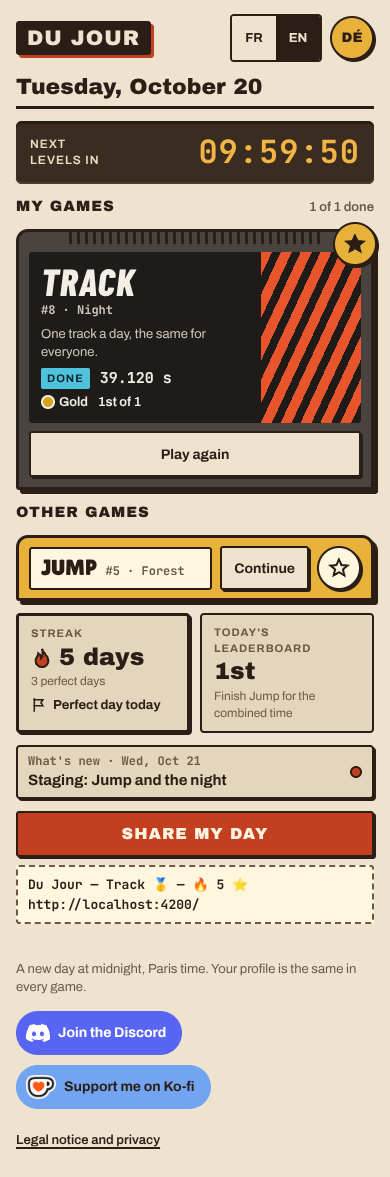
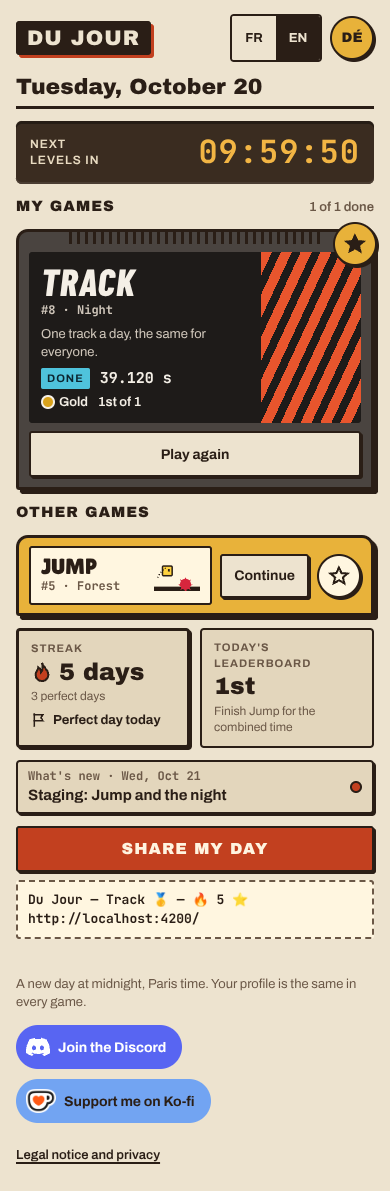
Lot F1 : les cartouches compactes gardent le décor de leur jeu
Le dessin de Jump, celui de Tower et la livrée de Track reviennent dans la ligne
compacte, en plus petit (plus grand dès 600 px), sous le texte et jamais dessus.
Budget du portail : +2 140 o mesurés, plafond 35 200 (à valider par Nathan).

Claude-Session: https://claude.ai/code/session_012eMWG2xN8q8rTXkqMFU2iP

diff --git a/packages/ui/src/favoris.css b/packages/ui/src/favoris.css
@@ -37,8 +37,8 @@
 .dj-cartouche--avec-favori {
   position: relative;
 }
-/* La cartouche compacte : une ligne, mêmes coque, couleurs et étiquette que la pleine (variante, pas un nouveau dessin). Les stries de préhension laissent la place ; les décors de
-   l'étiquette (dessin de Jump et de Tower) aussi — le nom, le numéro et la couleur du jeu restent ; la livrée de Track n'est plus qu'une bande étroite, sous laquelle le texte ne passe pas. */
+/* La cartouche compacte : une ligne, mêmes coque, couleurs, police **et décor** que la pleine (variante, pas un nouveau dessin) : le dessin de Jump et de Tower et la livrée de Track
+   sont gardés, en plus petit, sous le texte jamais dessus. Seules les stries de préhension laissent la place. */
 .dj-cartouche--compacte {
   position: relative;
   flex-direction: row;
@@ -46,9 +46,7 @@
   gap: var(--dj-espace-3);
   padding: var(--dj-espace-3) var(--dj-espace-4);
 }
-.dj-cartouche--compacte .dj-cartouche__stries,
-.dj-cartouche--compacte .jump-etiquette__dessin,
-.dj-cartouche--compacte .tower-etiquette__dessin {
+.dj-cartouche--compacte .dj-cartouche__stries {
   display: none;
 }
 .dj-cartouche--compacte .dj-etiquette {
@@ -57,12 +55,34 @@
   min-height: 0;
   padding: var(--dj-espace-3) var(--dj-espace-4);
 }
+.dj-cartouche--compacte .jump-etiquette__dessin {
+  width: 46px;
+  height: auto;
+}
+.dj-cartouche--compacte .tower-etiquette__dessin {
+  width: 38px;
+  height: auto;
+}
 .dj-cartouche--compacte .track-etiquette {
-  padding-right: 52px;
+  padding-right: 62px;
 }
 .dj-cartouche--compacte .track-etiquette__livree {
-  width: 40px;
+  width: 44px;
   right: -8px;
+}
+@media (min-width: 600px) {
+  .dj-cartouche--compacte .jump-etiquette__dessin {
+    width: 62px;
+  }
+  .dj-cartouche--compacte .tower-etiquette__dessin {
+    width: 50px;
+  }
+  .dj-cartouche--compacte .track-etiquette {
+    padding-right: 96px;
+  }
+  .dj-cartouche--compacte .track-etiquette__livree {
+    width: 84px;
+  }
 }
 .dj-cartouche--compacte .dj-cartouche__action {
   flex: none;

diff --git a/apps/portail/test/construction.test.ts b/apps/portail/test/construction.test.ts
@@ -12,7 +12,7 @@ import { VITRINE, portailEnv } from "../../../scripts/site.mjs";
 //     déclarées par la page ≤ 150 ko, seules Archivo Black et Archivo 400 préchargées ;
 //   - la vitrine `/ui/` n'est jamais construite pour la production.
 // Les chiffres sont écrits dans la sortie du test (et recopiés dans le README du lot).
-export const BUDGET_PREMIER_CHARGEMENT = 35_150; // lot F1 : 33 000 → 35 150 o (+2 150 pour +2 094 mesurés), « Mes jeux » (l'étoile, la cartouche compacte, la répartition, la pastille « Nouveau », les textes fr + en) : **à valider par Nathan** (`docs/plateforme/budgets.md`) ; avant : lot S1 : 32 768 → 33 000 o (+232 o), décision de Nathan du 31/10/2026 : les boutons Discord / Ko-fi passent par le composant du socle (jetons de couleur, code) ; avant : 32 * 1024 ; lot 53 : 30 → 32 ko (+2 048 o), décision de Nathan du 28/10/2026 : la pastille de l'iPhone, « Retrouver mon profil » (à la demande), l'en-tête iOS, les marges de sécurité
+export const BUDGET_PREMIER_CHARGEMENT = 35_200; // lot F1 : 33 000 → 35 200 o (+2 200 pour +2 140 mesurés), « Mes jeux » (l'étoile, la cartouche compacte, la répartition, la pastille « Nouveau », les textes fr + en) : **à valider par Nathan** (`docs/plateforme/budgets.md`) ; avant : lot S1 : 32 768 → 33 000 o (+232 o), décision de Nathan du 31/10/2026 : les boutons Discord / Ko-fi passent par le composant du socle (jetons de couleur, code) ; avant : 32 * 1024 ; lot 53 : 30 → 32 ko (+2 048 o), décision de Nathan du 28/10/2026 : la pastille de l'iPhone, « Retrouver mon profil » (à la demande), l'en-tête iOS, les marges de sécurité
 export const BUDGET_POLICES = 150 * 1024;
 
 const ROOT = join(__dirname, "../../..");

diff --git a/docs/plateforme/budgets.md b/docs/plateforme/budgets.md
@@ -10,7 +10,7 @@ Octets **compressés** (gzip) pour le JS, le CSS et le HTML ; octets des fichier
 
 | Clé | Application | Mesure | Budget (o) | Avant | Après | Marge | Gardé par |
 |---|---|---|---|---|---|---|---|
-| `portail.premier` | Portail | premier chargement de l'accueil (HTML, JS, CSS) | 35 150 | 22 360 | 35 094 (lot F1 : **+2 094 mesuré contre `main` reconstruit à part (33 000)** — « Mes jeux » : l'étoile (`boutonFavori`, `iconeEtoile`), la variante compacte de la cartouche, la répartition mes jeux / autres jeux, la ligne « à partir de demain », la pastille « Nouveau », la lecture de la liste de favoris, les textes français et anglais ; l'écriture au serveur est déjà à la demande (`favorisReseau.ts`) ; **plafond relevé de 2 150 o : à valider par Nathan** — le lot demandait un budget tenu, l'étoile et la cartouche compacte sont dans le premier dessin de l'accueil et ne peuvent pas être à la demande ; autre piste notée au rapport : charger le catalogue anglais du portail à la demande) ; 32 897 (lot S1 : +142 mesuré contre `main` reconstruit à part (32 755) — le pied passe par le composant du socle ; plafond relevé de 232 o par Nathan, 31/10/2026) ; 32 755 (lot TP : mesuré après la fusion de `main` — la cartouche de Tower, l'onglet et la ligne de partage (textes raccourcis pour tenir) ; avant : 31 650 (lot « musique » : +0 mesuré contre `main` reconstruit à part (31 650 ; le 31 590 noté par le lot M1 était resté en deçà) — la clé gardée `cdj:musique` de `@cdj/profile`; avant : 31 590 (lot M1 : +151 mesuré contre `main` reconstruit à part (31 439) — l'écoute de la première manette de chacune des quatre pages ; le menu est à la demande ; avant : 31 439 (lot T1 : −1 027 mesuré contre `main` reconstruit à part (32 466) — les six jetons de Tower coûtent ≈ +115 o, mais la table des jetons n'est plus gardée dans le JavaScript quand l'application n'appelle pas `valeurJeton` (`tous()` lu à la demande, `packages/ui/src/jetons.ts`) : ≈ −1 100 o ; 32 466 (lot P : +232 mesuré contre `main` reconstruit à part (32 234) — le badge « Brouillon » d'un jeu pas encore ouvert (aperçu de PR), `compte` et `brouillon` de la réponse de l'accueil, la rubrique `portail.brouillon`; 32 225 (lot G1 : +15 mesuré contre `main` (32 210) ; l'icône fantôme, le bouton et leurs textes sont hors du chunk du portail; 32 210 (lot 53 : +1 564 mesuré contre `main` reconstruit à part — la pastille de l'iPhone (`astuceIphone`, `pleinEcran.ts`) qui entre dans le portail, l'en-tête iOS des pages, `proposerRetrouver` (l'écran « Retrouver mon profil » est dans `retrouverPortail`, à la demande) ; **plafond relevé de 2 048 o par Nathan le 28/10/2026**; 30 646 (pied du portail : +509, ses deux boutons Discord et Ko-fi, la tasse et le pictogramme en fichiers ; 30 137 (lot N2 : +3 737 mesuré contre la ligne précédente — la ligne « Nouveautés » et sa lecture, le bandeau du message et sa surveillance (`@cdj/profile`, `bandeauAnnonce` du socle), la lecture prudente de la réponse de l'accueil ; la page `/nouveautes/` et ses données sont dans leur propre page, hors de ce chargement; 26 400 (lot N1 : +1 123 mesuré contre `main`, le code partagé de la page `/admin/` — logo, bouton, médaille — qui entre dans le chunk commun ; lot R8 : +854, la génération de données, le message « Nouveau départ » et la date du lancement)))))))))| 56 | `apps/portail/test/construction.test.ts` |
+| `portail.premier` | Portail | premier chargement de l'accueil (HTML, JS, CSS) | 35 200 | 22 360 | 35 140 (lot F1 : **+2 140 mesuré contre `main` reconstruit à part (33 000)** — « Mes jeux » : l'étoile (`boutonFavori`, `iconeEtoile`), la variante compacte de la cartouche, la répartition mes jeux / autres jeux, la ligne « à partir de demain », la pastille « Nouveau », la lecture de la liste de favoris, les textes français et anglais ; l'écriture au serveur est déjà à la demande (`favorisReseau.ts`) ; **plafond relevé de 2 200 o : à valider par Nathan** — le lot demandait un budget tenu, l'étoile et la cartouche compacte sont dans le premier dessin de l'accueil et ne peuvent pas être à la demande ; autre piste notée au rapport : charger le catalogue anglais du portail à la demande) ; 32 897 (lot S1 : +142 mesuré contre `main` reconstruit à part (32 755) — le pied passe par le composant du socle ; plafond relevé de 232 o par Nathan, 31/10/2026) ; 32 755 (lot TP : mesuré après la fusion de `main` — la cartouche de Tower, l'onglet et la ligne de partage (textes raccourcis pour tenir) ; avant : 31 650 (lot « musique » : +0 mesuré contre `main` reconstruit à part (31 650 ; le 31 590 noté par le lot M1 était resté en deçà) — la clé gardée `cdj:musique` de `@cdj/profile`; avant : 31 590 (lot M1 : +151 mesuré contre `main` reconstruit à part (31 439) — l'écoute de la première manette de chacune des quatre pages ; le menu est à la demande ; avant : 31 439 (lot T1 : −1 027 mesuré contre `main` reconstruit à part (32 466) — les six jetons de Tower coûtent ≈ +115 o, mais la table des jetons n'est plus gardée dans le JavaScript quand l'application n'appelle pas `valeurJeton` (`tous()` lu à la demande, `packages/ui/src/jetons.ts`) : ≈ −1 100 o ; 32 466 (lot P : +232 mesuré contre `main` reconstruit à part (32 234) — le badge « Brouillon » d'un jeu pas encore ouvert (aperçu de PR), `compte` et `brouillon` de la réponse de l'accueil, la rubrique `portail.brouillon`; 32 225 (lot G1 : +15 mesuré contre `main` (32 210) ; l'icône fantôme, le bouton et leurs textes sont hors du chunk du portail; 32 210 (lot 53 : +1 564 mesuré contre `main` reconstruit à part — la pastille de l'iPhone (`astuceIphone`, `pleinEcran.ts`) qui entre dans le portail, l'en-tête iOS des pages, `proposerRetrouver` (l'écran « Retrouver mon profil » est dans `retrouverPortail`, à la demande) ; **plafond relevé de 2 048 o par Nathan le 28/10/2026**; 30 646 (pied du portail : +509, ses deux boutons Discord et Ko-fi, la tasse et le pictogramme en fichiers ; 30 137 (lot N2 : +3 737 mesuré contre la ligne précédente — la ligne « Nouveautés » et sa lecture, le bandeau du message et sa surveillance (`@cdj/profile`, `bandeauAnnonce` du socle), la lecture prudente de la réponse de l'accueil ; la page `/nouveautes/` et ses données sont dans leur propre page, hors de ce chargement; 26 400 (lot N1 : +1 123 mesuré contre `main`, le code partagé de la page `/admin/` — logo, bouton, médaille — qui entre dans le chunk commun ; lot R8 : +854, la génération de données, le message « Nouveau départ » et la date du lancement)))))))))| 60 | `apps/portail/test/construction.test.ts` |
 | `portail.polices` | Portail | polices de l'accueil | 153 600 | 117 992 | 117 992 | 35 608 | `apps/portail/test/construction.test.ts` |
 | `track.jsCss` | Track | JS + CSS du premier chargement (plafond : lot 43, +15 000, décision de Nathan du 23/10/2026) | 296 736 | 256 990 | 296 275 (lot S1 : + ≈ 160 mesuré, les deux boutons Discord / Ko-fi à la demande) ; 296 163 (lot TP : mesuré après la fusion de `main` — le catalogue commun et le profil commun ; avant : 296 026 (lot « musique » : +363 mesuré contre `main` reconstruit à part (295 663) — le branchement de la musique commune et de ses scènes ; **plafond relevé de 295 736 à 296 736 (+1 000 o accordés par Nathan le 31/10/2026 pour la musique)**; avant : 295 663 (lot M2 : +2 190 mesuré contre `main` reconstruit à part (293 473) — le module des commandes (`@cdj/ui` `commandes.ts`, 1,8 ko : touches choisies, lecture du stockage, noms selon la disposition du clavier, paramètres des aides), les actions de Track, la lecture des touches par `input.ts` et `main.ts`, les aides qui citent les touches choisies ; **l'édition (échange, touches fixes, rétablir), l'écran Réglages › Commandes, sa feuille, ses deux catalogues et les noms des actions sont à la demande** (`commandesEdition`, `commandesEcran`, `catalogue.reglages.commandes`) ; **plafond relevé de 1 024 o, la limite du prompt du lot M2 — à valider par Nathan**; avant : 293 473 (lot M1 : +110 mesuré contre `main` reconstruit à part (293 363) — l'écoute de la première manette (`manetteLien`, une ligne de `main.ts`) ; le menu à la manette, sa feuille, son catalogue et les écrans de Track sont à la demande ; aucun relèvement ; avant : 293 363 (lot 56 : −1 023 mesuré contre `main` (294 386) — l'ambiance du lot 23 est retirée : ses sept recettes (`AMBIENCE`), sa construction en direct (`buildAmbience`), son bus, le curseur « Ambiance » des Réglages et ses textes ; **plafond inchangé**; 294 386 (lot 55, partie B : +367 mesuré contre `main` (294 018) — le crochet du nouveau son (`audio.ts` : chargement à la demande de `son/extension` au premier geste, la voiture qu'on voit, le moteur du lot 9 qui se tait quand le nouveau joue, les écouteurs qui attendent un vrai réveil du contexte pour l'iPhone, `audioSession`) ; le moteur, la boîte, les dix profils, les pneus, les bruitages, le compresseur et les boucles sont **à la demande** ; **plafond inchangé**; 294 023 (lot 55 : +290 mesuré contre `main` (293 733) — le cycle du bouton fantôme à quatre modes (Rien, Le mien, Le premier, Ma sélection), le chargeur du morceau à la demande `fantomesJeu` (cases du classement, compteur, rediffusions choisies, textes et feuille : tout le reste, hors du premier chargement), la référence publique de course (`ref`) posée sur les lignes du classement ; **plafond inchangé**; 293 733 (lot T1 : −927 mesuré contre `main` reconstruit à part (294 660) — les six jetons de Tower coûtent ≈ +115 o, mais la table des jetons n'est plus gardée dans le JavaScript quand l'application n'appelle pas `valeurJeton` (`tous()` lu à la demande, `packages/ui/src/jetons.ts`) : ≈ −1 100 o ; 294 660 (lot P : +205 mesuré contre `main` reconstruit à part (294 455) — la lecture de l'état des jeux au démarrage (`interrupteurInit`, module d'entrée minuscule ; tout le reste, `interrupteur.ts`, son catalogue et sa feuille, est **à la demande**), la clé d'aperçu qui survit au « Nouveau départ », « Jeu suivant du jour » qui ignore un jeu qui ne compte pas encore, `erreur.game_unavailable` ; **plafond relevé de 200 o — à valider par Nathan** (la marge de Track n'était que de 57 o); 294 461 (lot V2 : +54 mesuré contre `main` reconstruit à part (294 407) — l'entrée de la galerie des circuits à venir (`?debug&galerie`, jamais en production) dans le chargeur du banc ; la galerie, sa feuille et le générateur sont à la demande; 294 407 (lot V1 : +392 mesuré contre `main` reconstruit à part (294 015) — le sac de thèmes (`sacThemes.ts` de `@cdj/core` : cycles, jonction, premier jour du sac) et l'ancienne règle gardée (`themeAncien`), dans le premier chargement parce que le thème du jour y est lu (palette de l'accueil, archives, miniatures) ; code resserré (ni cache ni garde d'exécution, ≈ 150 o rendus) ; le registre des jours était déjà dans le premier chargement; 294 015 (pause allégée et rappel des touches : +14 contre 294 001 ; lot G1 : +420 mesuré contre `main` (293 581) — le bouton fantôme en partie, le choix de l'accueil, son texte, les médailles lues dans le registre (v19) ; **plafond relevé de 512 o** sur les 2 048 o autorisés par Nathan pour ce lot; 293 581 (lot 53 : +1 358 mesuré contre `main` reconstruit à part (292 223) — la détection « écran tactile sans plein écran » et le bouton qui ouvre l'aide (JS +1 259 : `pleinEcran.ts`, `boutonPleinEcran`, le câblage de `main.ts`), les marges de sécurité du HUD (CSS +99) ; l'aide, « Retrouver mon profil », leur catalogue et leur feuille sont **à la demande** (`aideIphone`, `retrouverJeu`), rendus autonomes : un module à la demande qui importait un module du premier chargement le faisait éclater en fichiers de plus (+1,4 ko mesurés) ; **plafond relevé de 1 376 o par Nathan le 28/10/2026**; 292 210 (lot 52 : +1 001 mesuré contre `main` reconstruit à part (291 209) — les boutons restent dans le premier chargement, la glissière, le volant, le gyroscope et les réglages tactiles sont à la demande, voir « Lot 52 (Track) » ; **plafond relevé de 1 024 o par Nathan le 28/10/2026** (la fusion du lot N2 ne laissait que 391 o) ; lot N2 : +759 mesuré par l'agent du lot contre l'arbre à 290 450 — `bandeauAnnonce` qui entre dans le morceau partagé du socle (≈ 200 o), la décision d'écran et le câblage de `main.ts` ; la surveillance et le bandeau sont à la demande (`annonceUi`, 1 682 o de JS et 250 o de CSS), jamais dans le premier chargement; 290 151 (lot 51 : +726 mesuré contre `main` reconstruit à part (289 425) — l'entrée du fantôme à la voiture de sa course, la lecture de la voiture du profil, `affichee` / `regarder` de la voiture du jeu, le chronomètre du portique ; la synchronisation du choix, les fantômes et leur construction sont à la demande, jamais dans le premier chargement; 289 395 (lot R11 : +72, le registre des jours et sa lecture ; lot 50 : +1 130, les crochets du post-traitement — un moteur sans multi-échantillonnage quand la chaîne est voulue, le mode copie, la précompilation —, la surveillance de la course, l'entrée du banc ; lot R9 : +19 ; lot R7 : +263; lot 39 : +644 ; lot 40 : +1 689 ; lot 43 : +9 466 ; 40b : +7 512 ; lot 46 : +1 241 ; lot 41 : +1 257 ; lot 44 : −1 847 ; lot 40c, Sparrow : +6 399 ; lot 45 : +2 248 ; lot 47 : +546 ; lot 42 : +211 ; lot 48 : +797 ; lot 49 : +184; lot R8 : +551, la génération de données et le message « Nouveau départ »)))))))))))| 461 | `apps/web/e2e/perf.spec.ts` |
 | `track.js` | Track | JS du premier chargement (plafond : lot 43, +15 000, décision du 23/10/2026) | 284 836 | 245 578 | 284 101 (lot « musique » : +363 (JS seul) contre `main` (283 738) ; plafond relevé de +1 000 o avec la ligne `track.jsCss`; avant : 283 738 (lot M2 : +2 190 (JS seul) mesuré contre `main` reconstruit à part (293 473) — le module des commandes (`@cdj/ui` `commandes.ts`, 1,8 ko : touches choisies, lecture du stockage, noms selon la disposition du clavier, paramètres des aides), les actions de Track, la lecture des touches par `input.ts` et `main.ts`, les aides qui citent les touches choisies ; **l'édition (échange, touches fixes, rétablir), l'écran Réglages › Commandes, sa feuille, ses deux catalogues et les noms des actions sont à la demande** (`commandesEdition`, `commandesEcran`, `catalogue.reglages.commandes`) ; **plafond relevé de 1 024 o, la limite du prompt du lot M2 — à valider par Nathan**; avant : 281 548 (lot M1 : +110 mesuré contre `main` reconstruit à part (281 438) — l'écoute de la première manette (`manetteLien`) ; avant : 281 438 (lot 56 : −1 023 mesuré contre `main` (282 461) — l'ambiance du lot 23 est retirée : ses sept recettes (`AMBIENCE`), sa construction en direct (`buildAmbience`), son bus, le curseur « Ambiance » des Réglages et ses textes ; **plafond inchangé**; 282 461 (lot 55, partie B : +367 mesuré contre `main` (282 093) — le crochet du nouveau son (`audio.ts` : chargement à la demande de `son/extension` au premier geste, la voiture qu'on voit, le moteur du lot 9 qui se tait quand le nouveau joue, les écouteurs qui attendent un vrai réveil du contexte pour l'iPhone, `audioSession`) ; le moteur, la boîte, les dix profils, les pneus, les bruitages, le compresseur et les boucles sont **à la demande** ; **plafond inchangé**; 282 098 (lot 55 : +290 mesuré contre `main` (281 808) — le cycle du bouton fantôme à quatre modes (Rien, Le mien, Le premier, Ma sélection), le chargeur du morceau à la demande `fantomesJeu` (cases du classement, compteur, rediffusions choisies, textes et feuille : tout le reste, hors du premier chargement), la référence publique de course (`ref`) posée sur les lignes du classement ; **plafond inchangé**; 281 808 (lot T1 : −987 mesuré contre `main` reconstruit à part (282 795) — les six jetons de Tower coûtent ≈ +115 o, mais la table des jetons n'est plus gardée dans le JavaScript quand l'application n'appelle pas `valeurJeton` (`tous()` lu à la demande, `packages/ui/src/jetons.ts`) : ≈ −1 100 o ; 282 795 (lot P : +205 mesuré contre `main` (282 590), mêmes causes ; **plafond relevé de 100 o — à valider par Nathan**; 282 596 (lot V2 : +54 mesuré contre `main` reconstruit à part (282 542) — l'entrée de la galerie des circuits à venir (`?debug&galerie`, jamais en production) dans le chargeur du banc ; la galerie, sa feuille et le générateur sont à la demande; 282 542 (lot V1 : +392 mesuré contre `main` reconstruit à part (282 150), mêmes causes; 282 186 (lot G1 : +363 mesuré contre `main` (281 823), mêmes causes ; **plafond relevé de 512 o**; 281 823 (lot 53 : +1 259 mesuré contre `main` reconstruit à part (280 564) — mêmes causes ; **plafond relevé de 976 o par Nathan le 28/10/2026**; 280 551 (lot 52 : +1 045 mesuré contre `main` reconstruit à part (279 506) — les boutons restent dans le premier chargement, la glissière, le volant, le gyroscope et les réglages tactiles sont à la demande, voir « Lot 52 (Track) » ; **plafond relevé de 1 024 o par Nathan le 28/10/2026** (la fusion du lot N2 ne laissait que 391 o) ; lot N2 : +903 mesuré contre la ligne précédente, mêmes causes; 278 603 (lot 51 : +726; 277 847 (lot R11 : +72 ; lot 50 : +1 130 ; lot R9 : +19 ; lot R7 : +263; lot 39 : +644 ; lot 40 : +1 689 ; lot 43 : +9 466 ; 40b : +7 512 ; lot 46 : +1 241 ; lot 41 : +1 121 ; lot 44 : −1 847 ; lot 40c, Sparrow : +6 399 ; lot 45 : +2 248 ; lot 47 : +546 ; lot 42 : +211 ; lot 48 : +797 ; lot 49 : +184; lot R8 : +551)))))))))) | 735 | `apps/web/e2e/perf.spec.ts` |

diff --git a/packages/ui/CLAUDE.md b/packages/ui/CLAUDE.md
@@ -19,7 +19,7 @@ Chargé quand on lit un fichier de `packages/ui`. **Zone partagée par toutes le
 - **Lot I6** : `src/dialogue.ts` — `suivreDialogue(écran, { ouvert?, observer?, focusInitial? })` : un écran en surimpression est un dialogue dont le focus entre à l'ouverture (sauf s'il s'ouvre **sous** un autre dialogue qui a le focus) et revient à la fermeture (à l'élément d'un autre écran qui l'a ouvert, sinon à l'écran resté dessous, sinon à la page : la partie reprend le clavier) ; posé d'office par `creerCadre` ; `[role=dialog][tabindex="-1"]` n'a pas de contour (socle.css). `src/mentions.ts` — `cheminMentions(langue, racine)` / `PAGES_MENTIONS` : la page des mentions de la langue (`mentions-legales/`, `legal/`). `src/catalogue.en.ts` — l'anglais du catalogue commun, **un module à part** (`CATALOGUE_COMMUN_EN`) que chaque jeu charge avec son anglais ; `CATALOGUE_COMMUN_FR` pour le premier chargement ; le portail garde `CATALOGUE_COMMUN` (les deux). `choixLangue` : le code court se voit, le nom de la langue se lit (pas d'`aria-label`).
 - `outils/vite.ts` (Node, construction) — `pagesDuSocle` : textes du HTML pré-remplis depuis le catalogue (`data-t`, `data-t-<attr>`), couleurs des jetons (`data-jeton-<attr>`), icône d'onglet (`data-icone-du-jour`), préchargement des polices (`data-precharge-polices`).
 - La **langue commune** (`cdj:langue`, détection, lecture, écriture) est dans `@cdj/profile` (`lireLangue`, `ecrireLangue`) : ce paquet ne touche ni au stockage ni à `navigator`.
-- **Mes jeux (lot F1)** : `boutonFavori` (l'étoile de 44 px, `aria-pressed`, nom lu fourni par l'appelant (« Ajouter Track à mes jeux » / « Retirer Track de mes jeux » : les textes sont ceux du portail, pas du catalogue commun — le français commun pèse dans le premier chargement des jeux) ; `iconeEtoile`, à part des icônes de `ICONES` comme le fantôme) et la **variante compacte de la cartouche** (`cartouche({ compacte: true, favori })` : une ligne, mêmes classes de coque et d'étiquette — pas un dessin par jeu). Leur feuille est **à part** (`src/favoris.css`, importée par le portail et la vitrine seulement : les jeux ne paient rien, le budget de Jump l'a imposé). Vitrine `/ui/` : leurs états. Usage : `apps/portail/CLAUDE.md`, « Mes jeux (lot F1) ».
+- **Mes jeux (lot F1)** : `boutonFavori` (l'étoile de 44 px, `aria-pressed`, nom lu fourni par l'appelant (« Ajouter Track à mes jeux » / « Retirer Track de mes jeux » : les textes sont ceux du portail, pas du catalogue commun — le français commun pèse dans le premier chargement des jeux) ; `iconeEtoile`, à part des icônes de `ICONES` comme le fantôme) et la **variante compacte de la cartouche** (`cartouche({ compacte: true, favori })` : une ligne, mêmes classes de coque et d'étiquette, **décor gardé en plus petit** (dessin de Jump et de Tower, livrée de Track) — pas un dessin par jeu). Leur feuille est **à part** (`src/favoris.css`, importée par le portail et la vitrine seulement : les jeux ne paient rien, le budget de Jump l'a imposé). Vitrine `/ui/` : leurs états. Usage : `apps/portail/CLAUDE.md`, « Mes jeux (lot F1) ».
 
 ## Consignes
 - **Toute couleur, police, rayon, ombre et durée vient des jetons** (`var(--…)`) : aucune valeur en dur dans une feuille, un composant ou une application (test `jetons.test.ts`).

diff --git a/apps/portail/CLAUDE.md b/apps/portail/CLAUDE.md
@@ -44,7 +44,7 @@ README : `docs/plateforme/lots/lot-I6-finitions.md`.
 - **Accessibilité** : axe (`apps/web/e2e/axe.ts`) sur l'accueil plein, le profil et le classement du jour (`portail-journee.spec.ts`), les mentions FR et EN et la 404 (`domaine.spec.ts`), en français et en anglais : aucune violation « serious » ni « critical ». Le choix de langue (`choixLangue` du socle) se lit « Français » / « English » sans `aria-label` (le nom lu contient le texte visible).
 
 ## iPhone et application ajoutée à l'écran d'accueil (lot 53)
-README : `docs/lots/lot-53-iphone-plein-ecran.md` ; règles de fond : `CLAUDE.md` racine, `apps/web/CLAUDE.md`, `packages/ui/CLAUDE.md`. Le portail n'a pas de bouton plein écran : sur iPhone (hors application) il montre **une fois** la pastille « Partager › Sur l'écran d'accueil » (`astuceIphone`, fermée = `cdj:astuce:plein-ecran`, après la barre) ; **en mode application**, sans profil, au premier lancement, « Retrouver mon profil » (`src/retrouverPortail.ts`, `import()` : rien dans le premier chargement ; il n'importe rien de la page). **Marges de sécurité** : `.portail` (`portail.css`) et le corps des pages statiques (`mentions.css`, `introuvable.css`) y ajoutent `env(safe-area-inset-*)` ; chaque page d'entrée porte l'en-tête iOS et `viewport-fit=cover` ; le manifeste a `id: "/"`. Budget du premier chargement : 35 150 o (relevé par Nathan : lot 53 → 32 768, lot S1 → 33 000 ; lot F1 → 35 150, **à valider par Nathan** : +2 094 o mesurés pour « Mes jeux », voir `docs/plateforme/budgets.md`). Test : `apps/web/e2e/iphone.spec.ts`.
+README : `docs/lots/lot-53-iphone-plein-ecran.md` ; règles de fond : `CLAUDE.md` racine, `apps/web/CLAUDE.md`, `packages/ui/CLAUDE.md`. Le portail n'a pas de bouton plein écran : sur iPhone (hors application) il montre **une fois** la pastille « Partager › Sur l'écran d'accueil » (`astuceIphone`, fermée = `cdj:astuce:plein-ecran`, après la barre) ; **en mode application**, sans profil, au premier lancement, « Retrouver mon profil » (`src/retrouverPortail.ts`, `import()` : rien dans le premier chargement ; il n'importe rien de la page). **Marges de sécurité** : `.portail` (`portail.css`) et le corps des pages statiques (`mentions.css`, `introuvable.css`) y ajoutent `env(safe-area-inset-*)` ; chaque page d'entrée porte l'en-tête iOS et `viewport-fit=cover` ; le manifeste a `id: "/"`. Budget du premier chargement : 35 200 o (relevé par Nathan : lot 53 → 32 768, lot S1 → 33 000 ; lot F1 → 35 200, **à valider par Nathan** : +2 140 o mesurés pour « Mes jeux », voir `docs/plateforme/budgets.md`). Test : `apps/web/e2e/iphone.spec.ts`.
 
 ## Le panneau d'administration (lot N1)
 README : `docs/plateforme/lots/lot-N1-admin-connexion-tableau-joueurs.md` ; serveur : `apps/api/CLAUDE.md`, « Administration (lot N1) » ; étapes de Nathan : `docs/plateforme/admin.md`.

diff --git a/docs/plateforme/lots/lot-F1-mes-jeux-favoris.md b/docs/plateforme/lots/lot-F1-mes-jeux-favoris.md
@@ -13,7 +13,7 @@ Branche `claude/mes-jeux-favoris-jstxwy`, PR en brouillon. Charte : `identite.md
 `<aperçu>/?demo=joueur` : Track sous « Mes jeux », Jump dessous en ligne compacte jaune. Toucher l'étoile de Jump : il monte (« Ton choix compte pour ta journée à partir de demain. »). Recharger : l'ordre est gardé ; le partage ne cite que mes jeux.
 
 ## Décisions à prendre / écarts
-1. **Budget du portail** : +2 094 o mesurés contre `main` (33 000 → 35 094). L'étoile et la cartouche compacte sont dans le premier dessin de l'accueil : pas de « à la demande » possible (l'écriture au serveur l'est déjà). **Plafond relevé de 2 150 o à 35 150, à valider par Nathan** (`budgets.md`). Piste si refusé : charger le catalogue anglais du portail à la demande, dans un lot à part.
+1. **Budget du portail** : +2 140 o mesurés contre `main` (33 000 → 35 140). L'étoile et la cartouche compacte sont dans le premier dessin de l'accueil : pas de « à la demande » possible (l'écriture au serveur l'est déjà). **Plafond relevé de 2 200 o à 35 200, à valider par Nathan** (`budgets.md`). Piste si refusé : charger le catalogue anglais du portail à la demande, dans un lot à part.
 2. **Charte** : le fichier fourni numérotait ce texte « révision 14 » sur une base plus ancienne que le dépôt (qui a déjà les révisions 13 Tower et 14 manette) : je n'ai **pas écrasé** `identite.md`, j'y ai repris le seul passage « Mes jeux » (révision 15). Le sélecteur Tous / Amis du même fichier est celui du lot F2.
 3. **« Première visite »** (le prompt dit « début du jour, ou première visite du jour ») : interprété comme « profil créé aujourd'hui » (`players.created_at`).
 4. **Cache « invalidé pour ce joueur »** : rien à vider côté serveur (sa réponse du jour est `private, no-cache`, recalculée à chaque requête ; le classement gardé ne dépend pas des favoris) ; côté page, la réponse du `PUT` redessine sans relire le jour.
